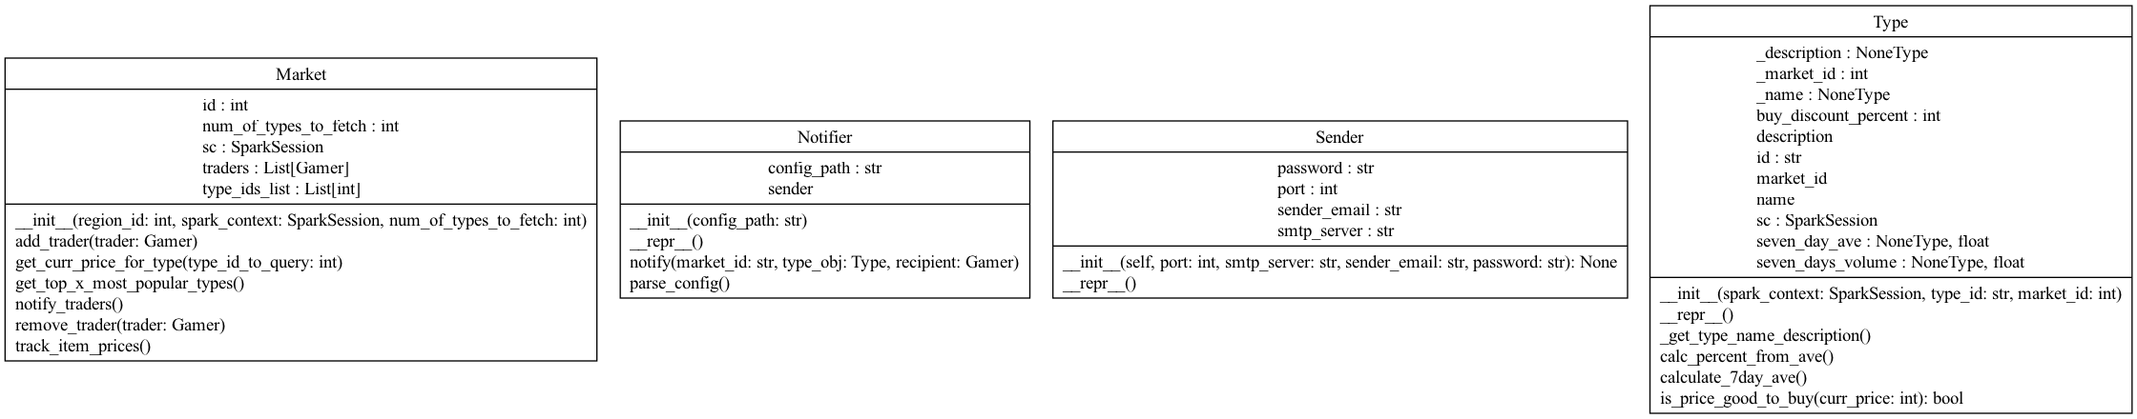
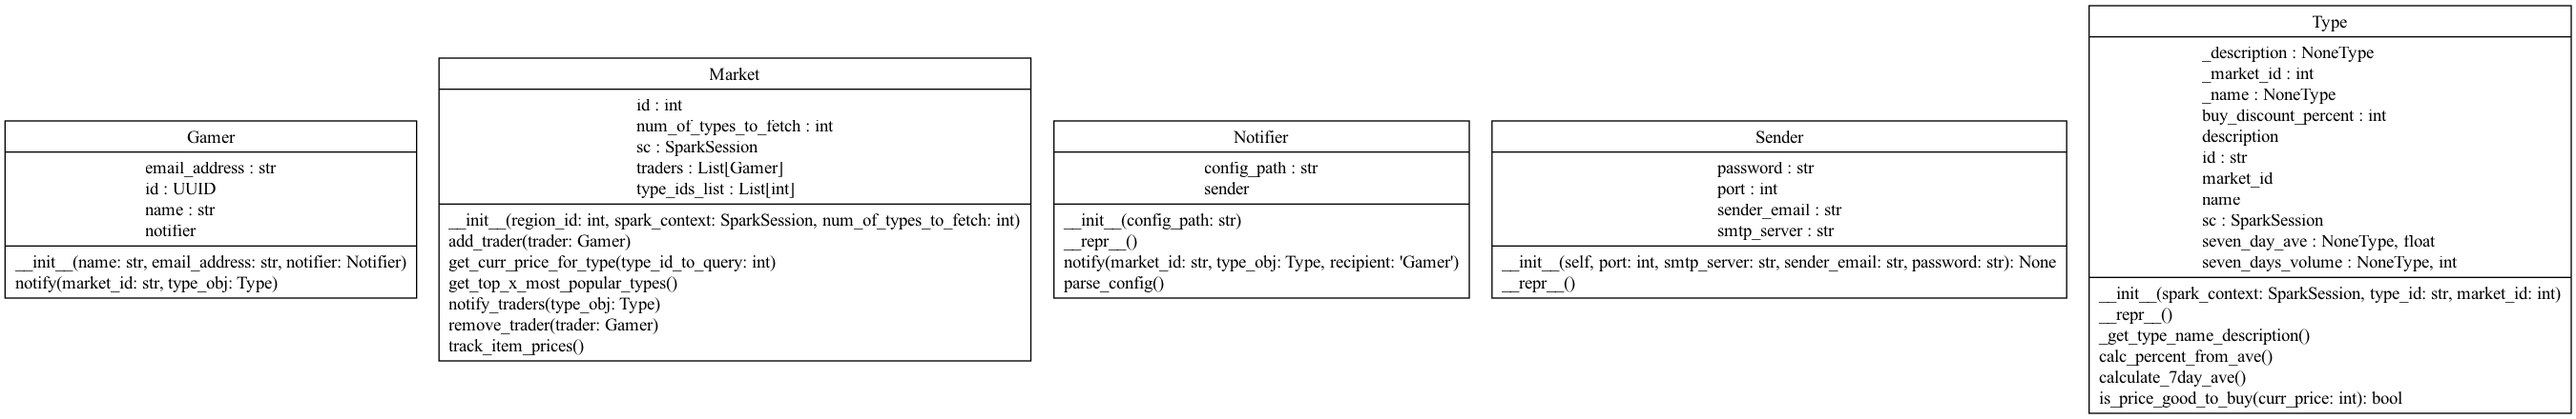
upd

diff --git a/test/test_gamer.py b/test/test_gamer.py
@@ -1,0 +1,33 @@
+import pytest
+from unittest.case import TestCase
+from unittest.mock import patch, MagicMock, call, mock_open, create_autospec
+
+from src.gamer import Gamer
+from src.notifier import Notifier
+
+
+@patch('src.notifier.Notifier')
+def test_instantiate_gamer(mock_notifier):
+    # arrange & act
+    gamer = Gamer(name="Llama", email_address="llama@gmail.com", notifier=mock_notifier)
+
+    # assert
+    assert isinstance(gamer, Gamer)
+
+
+@patch('src.notifier.Notifier.parse_config')
+@patch('src.notifier.yaml.safe_load')
+def test_notify(mock_yaml, mock_parse_config, mock_sender, caplog):
+    # arrange & act
+
+    sender = mock_sender
+    mock_parse_config.return_value = sender
+    open_mock = MagicMock()
+    with patch('src.notifier.open',
+               side_effect=mock_open(mock=open_mock)):
+        n = Notifier()
+        gamer = Gamer(name="Llama", email_address="llama@gmail.com", notifier=n)
+
+    # assert
+    print(caplog.text)
+    assert True  # FIXME

diff --git a/test/conftest.py b/test/conftest.py
@@ -1,0 +1,35 @@
+import subprocess
+from collections import namedtuple
+from unittest.mock import patch
+
+from pytest import fixture
+from src.notifier import Notifier
+from src.sender import Sender
+
+
+@fixture(scope='function')
+def mock_sender():
+    return Sender(
+        smtp_server="smtp.google.com",
+        port=465,
+        sender_email="llama@gmail.com",
+        password="llama_password"
+    )
+
+
+@fixture(scope='function')
+def sample_api_sell_data():
+    return {
+        "duration": 90,
+        "is_buy_order": False,
+        "issued": "2025-02-09T19:44:14Z",
+        "location_id": 60003760,
+        "min_volume": 1,
+        "order_id": 6983462286,
+        "price": 5500000.0,
+        "range": "region",
+        "system_id": 30000142,
+        "type_id": 17328,
+        "volume_remain": 57,
+        "volume_total": 101
+    }

diff --git a/src/utils.py b/src/utils.py
@@ -30,6 +30,7 @@ def get_date_yesterday():
 
 
 def get_logger(logger_name):
+    print("Logs will be saved to: ", LOG_FILE_PATH)
     os.makedirs(os.path.join(Path(__file__).parent.absolute(), 'logs'), exist_ok=True)
     logger = logging.getLogger(logger_name)
     if logger.hasHandlers():  # Prevent duplicate handlers

diff --git a/README.md b/README.md
@@ -2,17 +2,68 @@
 
 [![linting: pylint](https://img.shields.io/badge/linting-pylint-yellowgreen)](https://github.com/pylint-dev/pylint)
 
-# Class diagrams
+This app creates a Market which will keep track of the current prices for top x (configurable) types that are traded in this market. If the price is lower than a certain configurable percentage, it will send an email to all the traders/gamers subscribed to it. 
+It simulates livestream but actually fetches every few seconds. It calculates the average price from the last 7 days for the given type and calculates the discount price from that and compares the discount price to the latest price. The latest price is the price of SELL orders for that given type on that given market where the price is lowest for the last day and there are volumes left (stock basically left to buy). More info on Even online in the links below.
+
+- [Error handling](https://developers.eveonline.com/blog/error-rate-limiting-imminent)
+- [Applications EVE Online](https://developers.eveonline.com/applications)
+- [API UI](https://esi.evetech.net/ui/) 
+- [Swagger hub](https://apidog.com/apidoc/project-346592/api-3531125) 
+
+## Class diagrams
 
 ![class_diagram](img/classes.png)
 
 ---
 
-### Links:
-- [Error handling](https://developers.eveonline.com/blog/error-rate-limiting-imminent)
-- [Applications EVE Online](https://developers.eveonline.com/applications)
-- [API UI](https://esi.evetech.net/ui/) 
-- [Swagger hub](https://apidog.com/apidoc/project-346592/api-3531125) 
+## How to run
+
+### Locally
+
+- Make sure you have Java 17 or less installed (for spark)
+- Add config for the SMTP service with your email address and password, not a great practice, but this config file is not tracked so will be stored on your machine only. 
+`src/vault/config.yaml`
+ with the following syntax
+
+```yaml
+password: "llamapassword"   # if using gmail you need to generate an App password first and use that for which you need to enable 2FA. 
+port: '465'   # smtp secure port
+sender_email: llama@gmail.com
+smtp_server: smtp.gmail.com
+```
+
+- Check out the variables inside `settings/common.py` to see if there's anything you'd like to update. 
+- inside `docker-compose.yaml` you can change the number of replicas to run
+
+And then run.. 
+
+```bash
+make install
+make run
+```
+
+### With docker
+
+- Add config for the SMTP service with your email address and password, not a great practice, but this config file is not tracked so will be stored on your machine only. 
+`src/vault/config.yaml`
+ with the following syntax
+
+```yaml
+password: "llamapassword"   # if using gmail you need to generate an App password first and use that for which you need to enable 2FA. 
+port: '465'
+sender_email: llama@gmail.com
+smtp_server: smtp.gmail.com
+```
+
+- Check out the variables inside `settings/common.py` to see if there's anything you'd like to update. 
+- inside `docker-compose.yaml` you can change the number of replicas to run
+
+And then run.. 
+
+```bash
+make build
+make run_with_docker
+```
 
 ---
 
